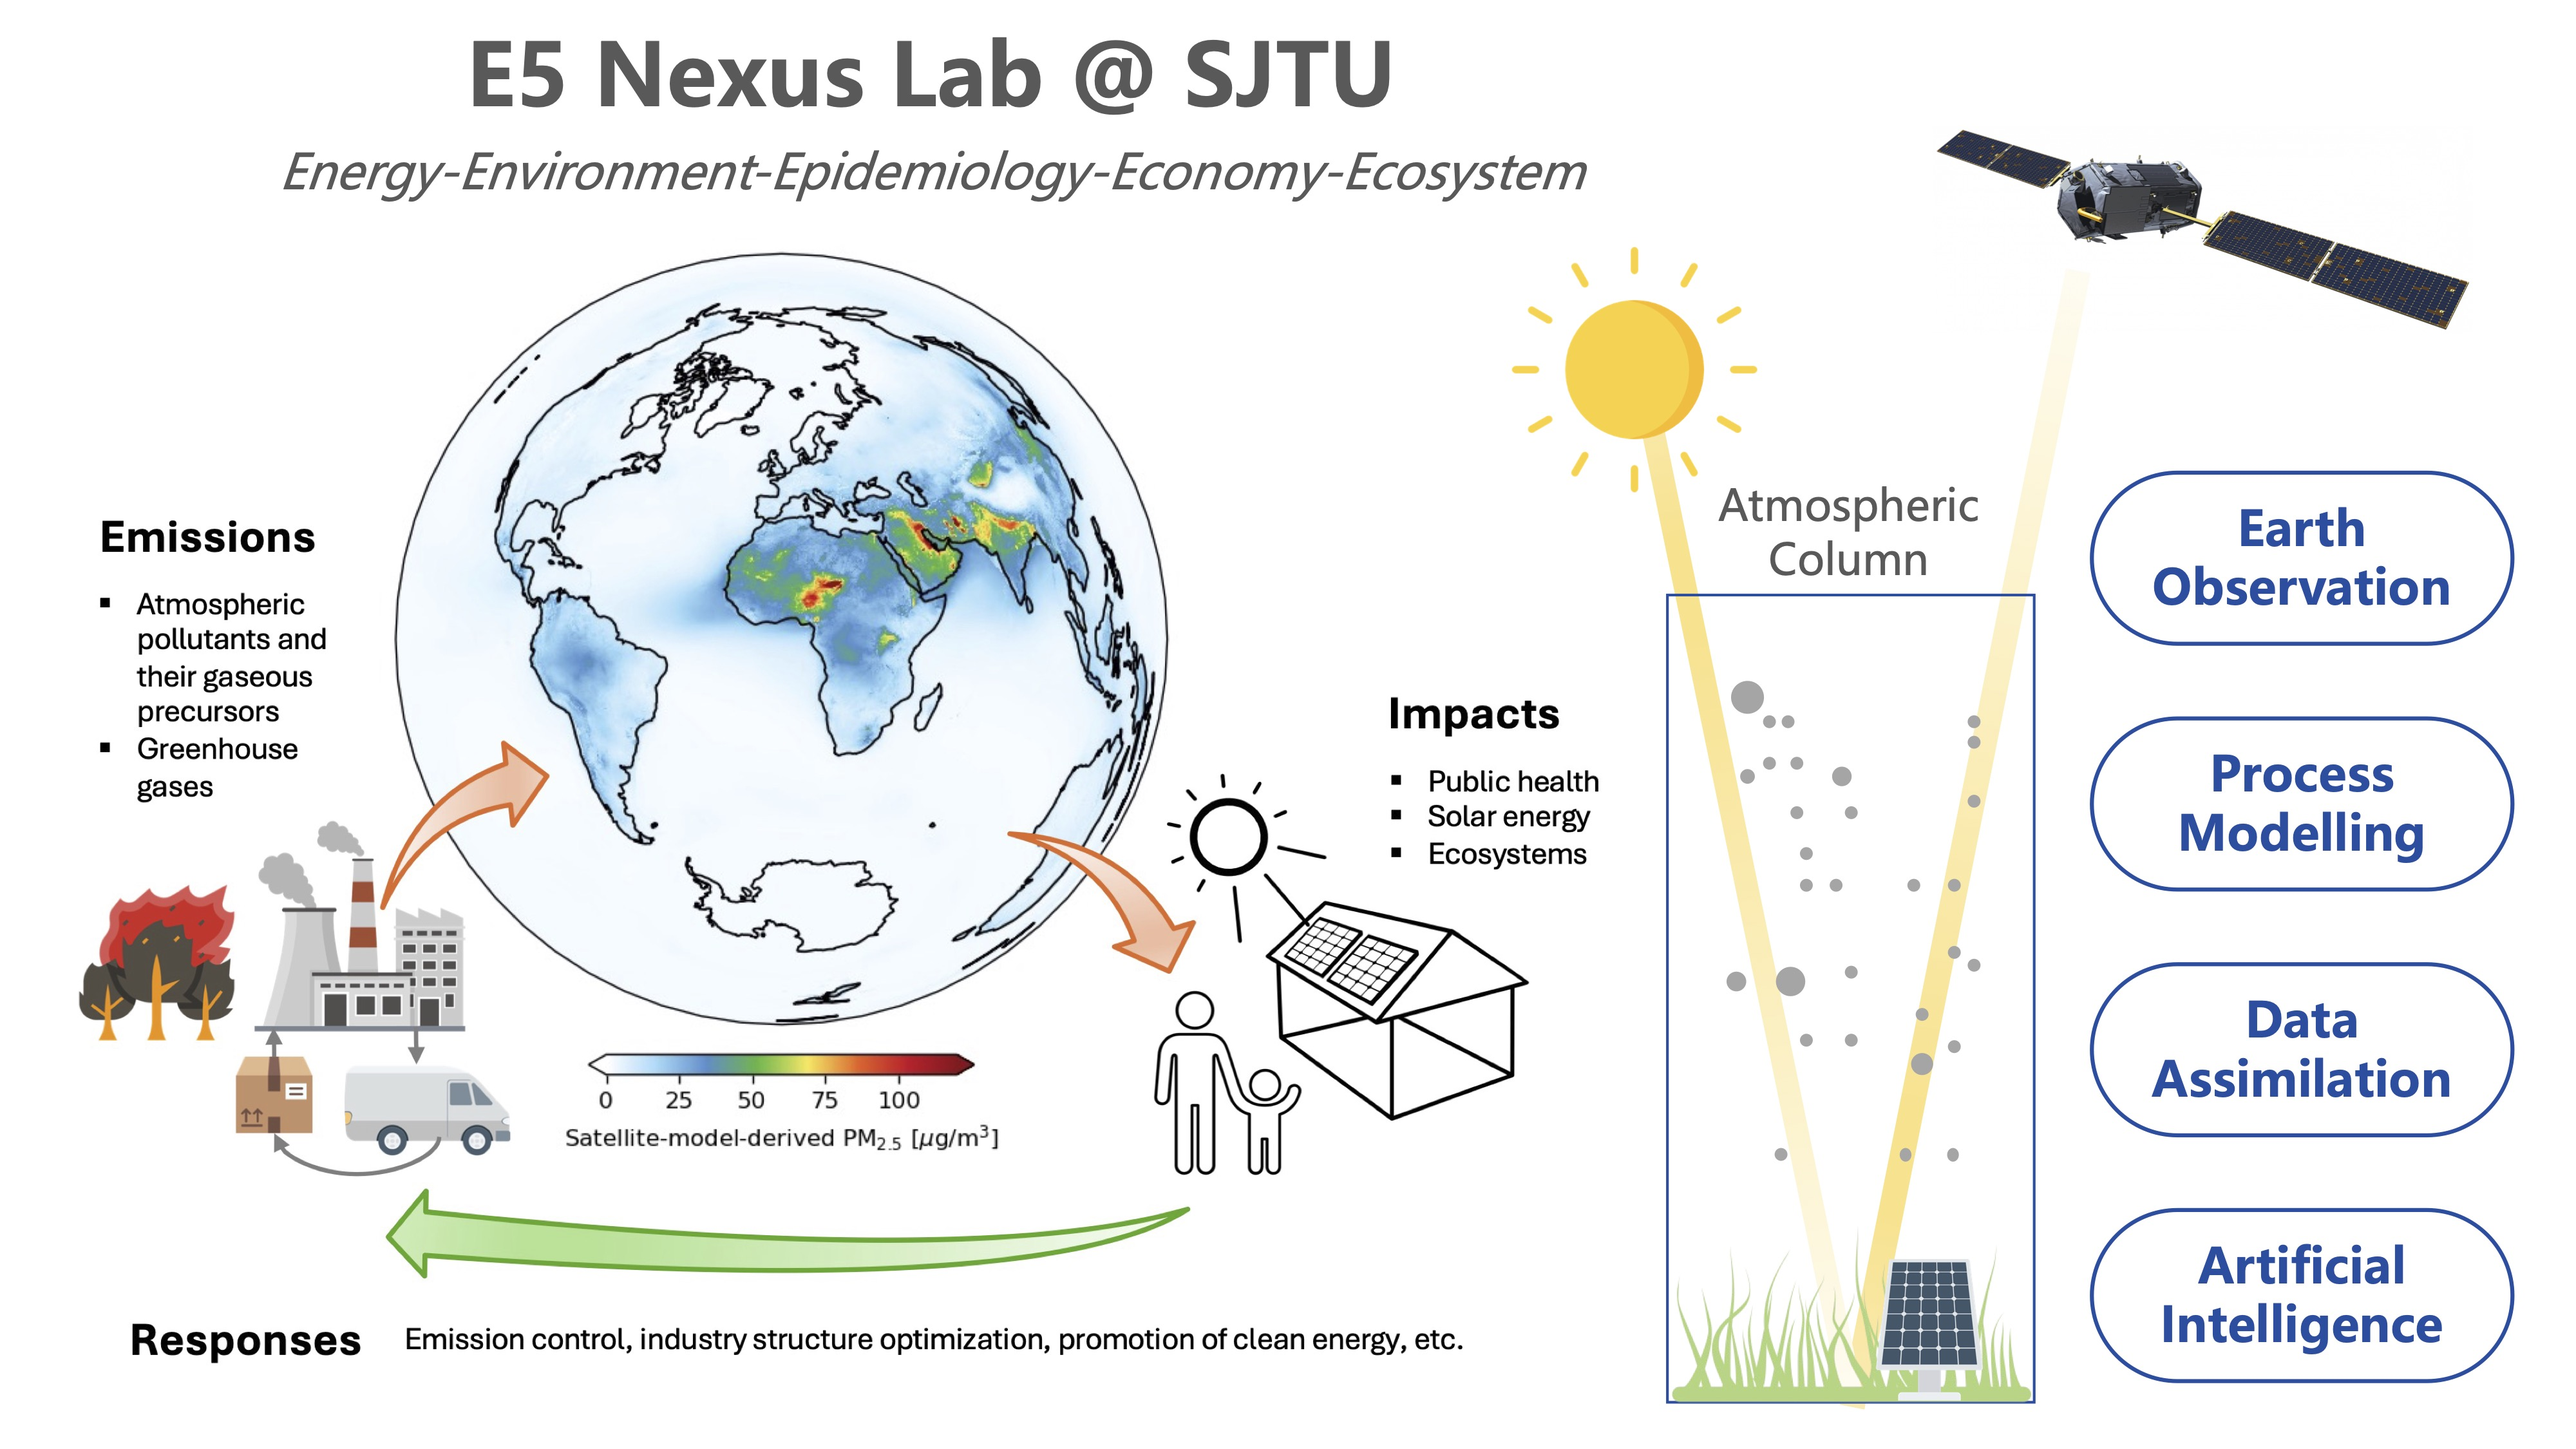
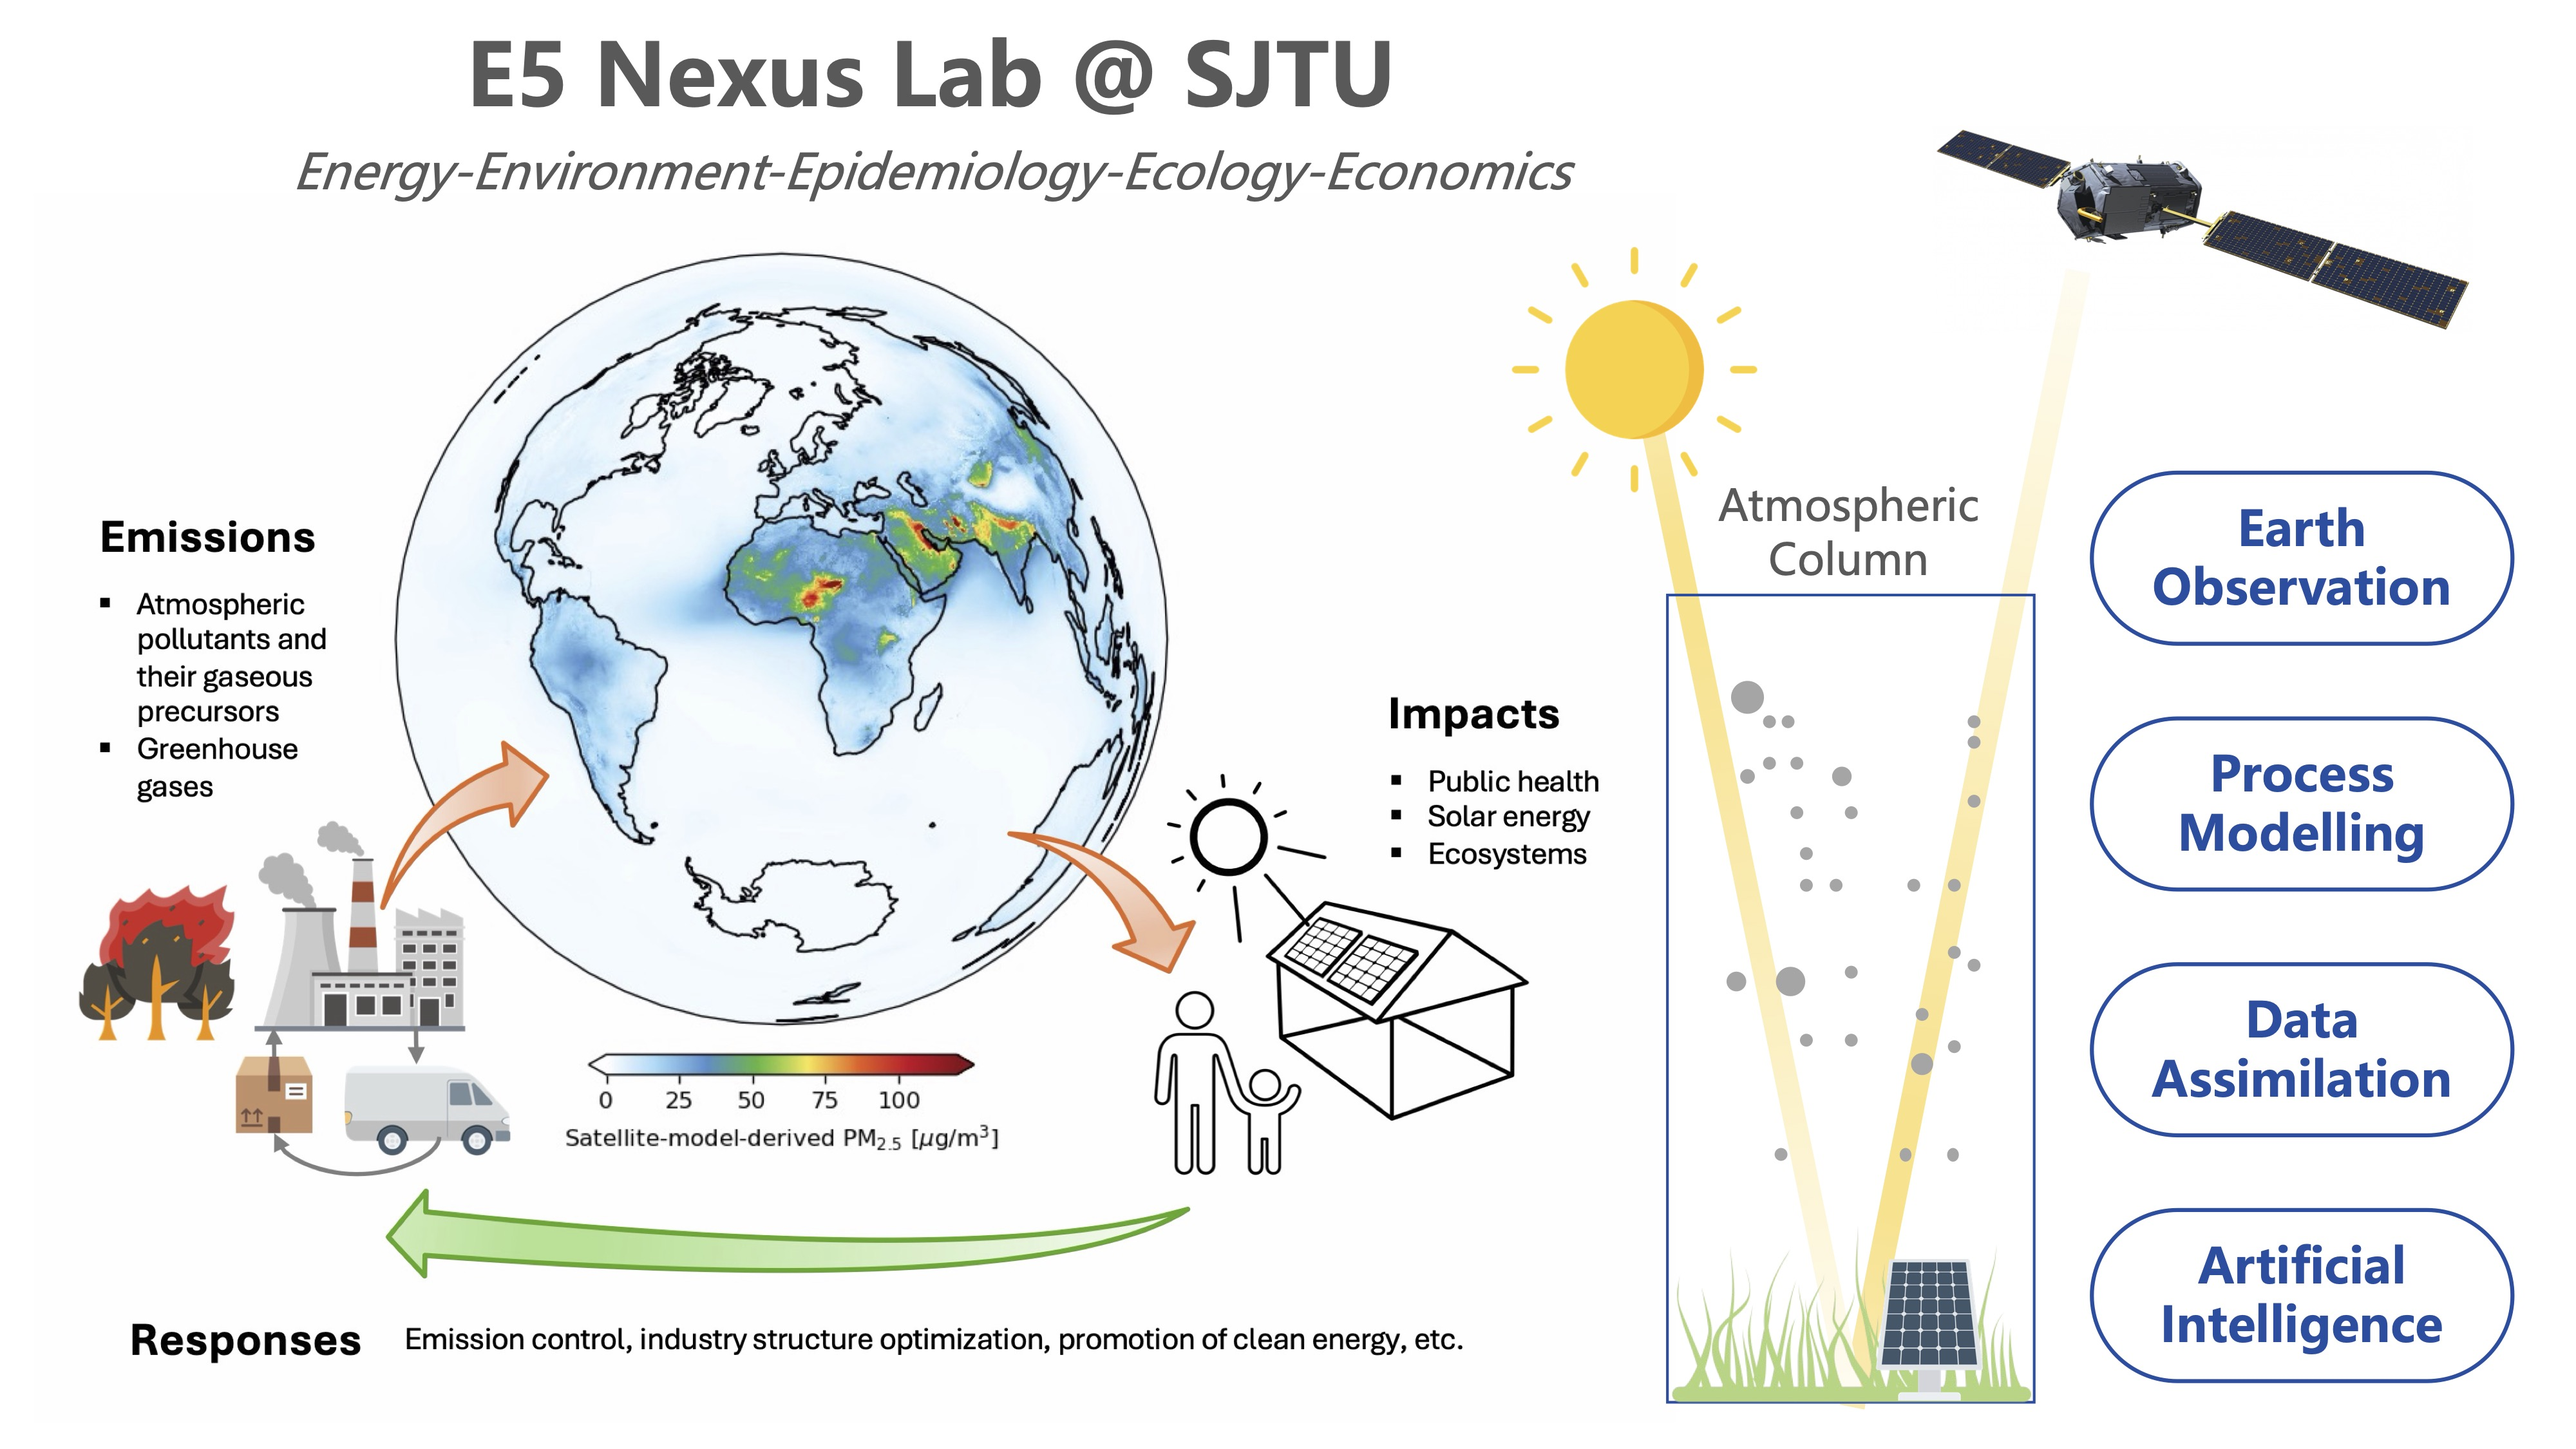
some updates

Changed region(s): [[0.0938, 0.0933, 0.625, 0.1556]]

diff --git a/_pages/home.md b/_pages/home.md
@@ -27,6 +27,9 @@ We focus on a wide range of topics at the **nexus** of renewable **energy**, the
         <li data-target="#carousel" data-slide-to="0" class="active"></li>
         <li data-target="#carousel" data-slide-to="1"></li>
         <li data-target="#carousel" data-slide-to="2"></li>
+        <li data-target="#carousel" data-slide-to="3"></li>
+        <li data-target="#carousel" data-slide-to="4"></li>
+        <li data-target="#carousel" data-slide-to="5"></li>
     </ol>
 
     <!-- Items -->
@@ -35,10 +38,16 @@ We focus on a wide range of topics at the **nexus** of renewable **energy**, the
             <img src="{{ site.url }}{{ site.baseurl }}/images/slider7001400/E5_Nexus_Lab.jpg" alt="Slide 0" />
         </div>
         <div class="item">
-            <img src="{{ site.url }}{{ site.baseurl }}/images/slider7001400/E5_Nexus_Lab.jpg" alt="Slide 1" />
+            <img src="{{ site.url }}{{ site.baseurl }}/images/slider7001400/interdisciplinary_framework.jpg" alt="Slide 1" />
         </div>
         <div class="item">
-            <img src="{{ site.url }}{{ site.baseurl }}/images/slider7001400/E5_Nexus_Lab.jpg" alt="Slide 2" />
+            <img src="{{ site.url }}{{ site.baseurl }}/images/slider7001400/yao2022est.jpg" alt="Slide 2" />
+        </div>
+        <div class="item">
+            <img src="{{ site.url }}{{ site.baseurl }}/images/slider7001400/yao2025est.jpg" alt="Slide 2" />
+        </div>
+        <div class="item">
+            <img src="{{ site.url }}{{ site.baseurl }}/images/slider7001400/yin2026cee.jpg" alt="Slide 2" />
         </div>
     </div>
   <a class="left carousel-control" href="#carousel" role="button" data-slide="prev">

diff --git a/_pages/research.md b/_pages/research.md
@@ -117,13 +117,15 @@ Stay tuned.
 
 #### **2\. Renewable energy and climate change mitigation \| 可再生能源与减缓气候变化**
 
-##### **2.1. Satellite remote sensing monitoring of renewable energy infrastructure \| 可再生能源基础设施卫星遥感监测**
-
 Stay tuned.
 
-##### **2.2. Environmental impact analysis of renewable energy infrastructure \| 可再生能源基础设施环境影响分析**
+<!-- ##### **2.1. Satellite remote sensing monitoring of renewable energy infrastructure \| 可再生能源基础设施卫星遥感监测** -->
 
-Stay tuned.
+<!-- Stay tuned. -->
+
+<!-- ##### **2.2. Environmental impact analysis of renewable energy infrastructure \| 可再生能源基础设施环境影响分析** -->
+
+<!-- Stay tuned. -->
 
 ---
 
